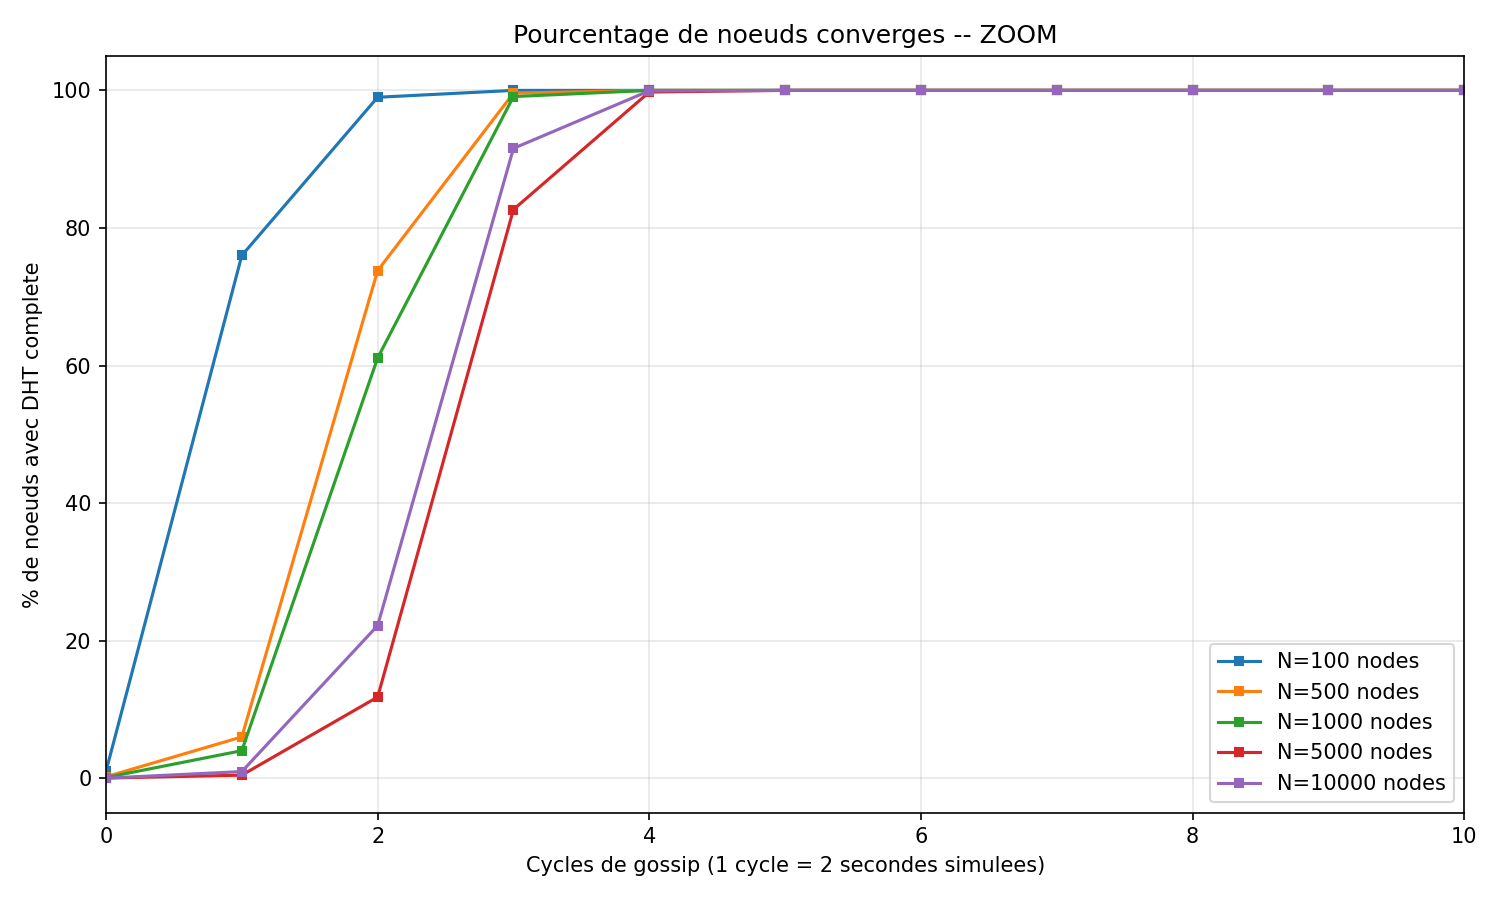
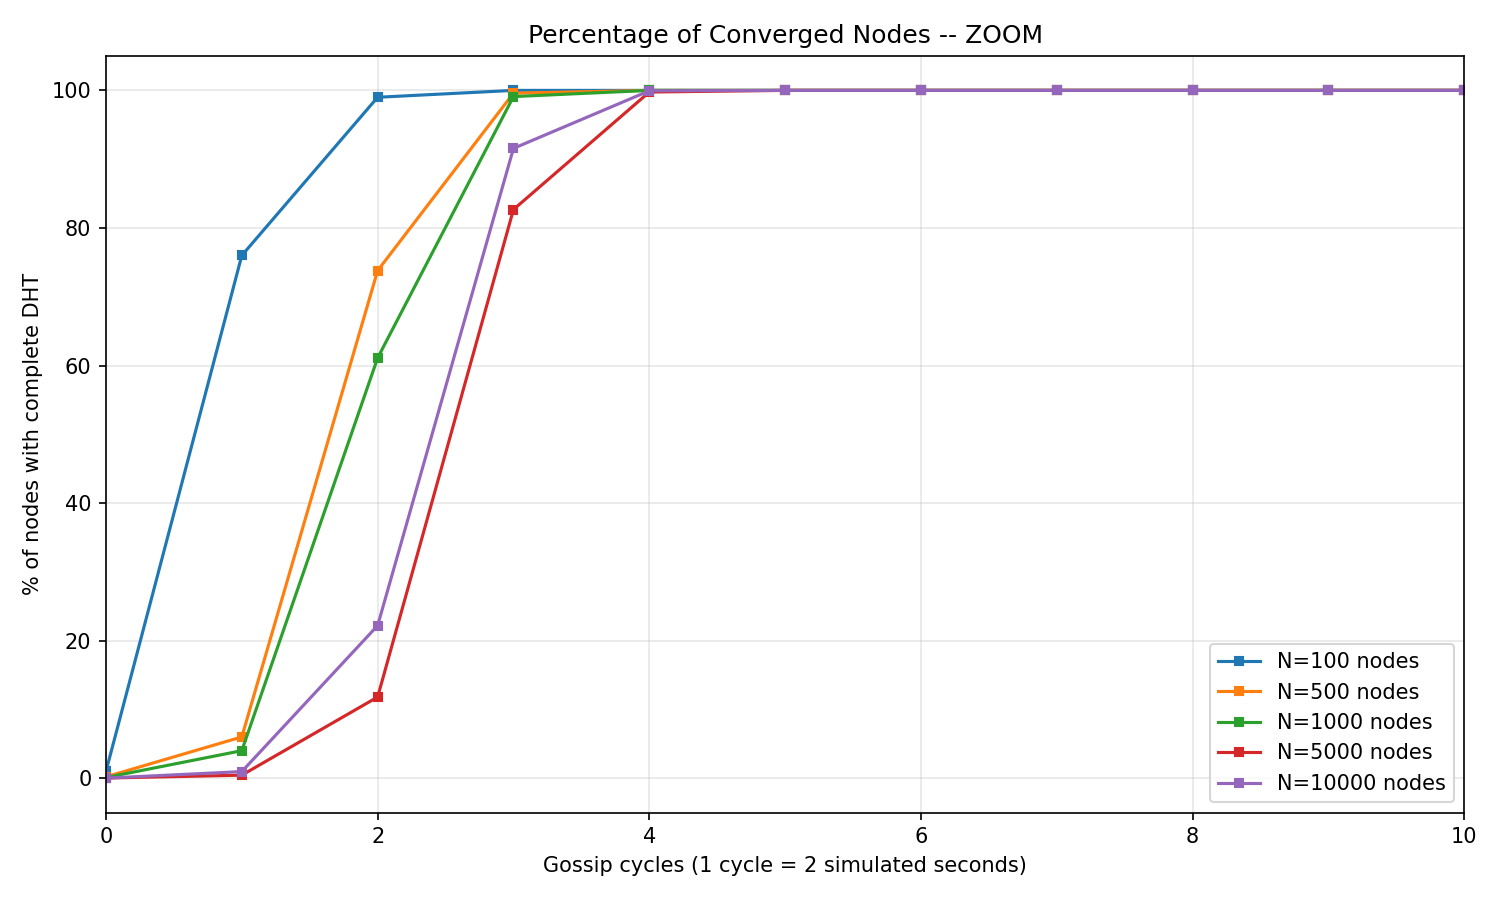
update

Changed region(s): [[0.3373, 0.9333, 0.7053, 0.9956], [0.3373, 0.0311, 0.7053, 0.0622], [0.0, 0.3111, 0.0307, 0.6844]]

diff --git a/app/src/main/kotlin/com/mobicloud/data/network/service/MobicloudP2PService.kt b/app/src/main/kotlin/com/mobicloud/data/network/service/MobicloudP2PService.kt
@@ -599,11 +599,18 @@ class MobicloudP2PService : Service() {
                                 // En Isolated : ignorer les SPs pleins pour laisser le timer d'isolation
                                 // expirer → BullySolo. Sans ça, GET_PEERS toutes les 10s remet le timer
                                 // à zéro et BullySolo ne démarre jamais.
+                                // Fix boucle infinie (cluster plein, currentMemberCount=0 relay) :
+                                // le relay retourne toujours currentMemberCount=0 (champ optionnel non
+                                // garanti), donc le guard currentMemberCount >= MAX_CLUSTER_SIZE ne fire
+                                // jamais. On complète avec lastRejectedSPId : si ce SP nous a déjà rejeté
+                                // (stocké dans Isolated.lastRejectedSPId), on préserve le timer même si
+                                // le relay dit qu'il a de la place.
                                 // En Rejoining : fallback si le COORDINATOR a été perdu via relay —
                                 // le nœud trouve le nouveau SP dans le tracker et envoie JOIN directement.
                                 if (fsmState is NodeJoinState.Isolated &&
-                                    hint.currentMemberCount >= com.mobicloud.domain.models.m11_join.MAX_CLUSTER_SIZE) {
-                                    Log.i(LOGTAG, "[JOIN] SP ${peer.nodeId.take(8)} plein (${hint.currentMemberCount}/${ com.mobicloud.domain.models.m11_join.MAX_CLUSTER_SIZE}) — Isolated timer préservé")
+                                    (hint.currentMemberCount >= com.mobicloud.domain.models.m11_join.MAX_CLUSTER_SIZE ||
+                                     peer.nodeId == fsmState.lastRejectedSPId)) {
+                                    Log.i(LOGTAG, "[JOIN] SP ${peer.nodeId.take(8)} plein ou déjà rejeté (count=${hint.currentMemberCount}, lastRejected=${fsmState.lastRejectedSPId.take(8)}) — Isolated timer préservé")
                                 } else {
                                     joinStateMachine.transition(JoinEvent.NewCandidateDetected(hint))
                                     Log.i(LOGTAG, "[JOIN] NewCandidateDetected → SP ${peer.nodeId.take(8)} (state=${fsmState::class.simpleName})")

diff --git a/relay-server/server.js b/relay-server/server.js
@@ -31,12 +31,11 @@ const MSG = {
   ERROR: 0xFF
 };
 
-// Story 12.1 — MIRROR: app/.../ClusterConstants.kt#MAX_CLUSTER_SIZE (= 50).
-// Aligné sur la valeur Android le 2026-06-08 (était 2, divergeait du commentaire MIRROR) :
-// un SP Android admet jusqu'à 50 membres ; avec un cap relais à 2, tout currentMemberCount > 2
-// était coercé en 0 → un SP avec 3+ membres se déclarait "vide" au tracker → la découverte par
-// charge (Epic 12.2) sur-admettait sans balancer. 50 rétablit la cohérence d'admission.
-const MAX_CLUSTER_SIZE_SERVER = 50;
+// Story 12.1 — MIRROR: app/.../ClusterConstants.kt#MAX_CLUSTER_SIZE (= 3).
+// Doit rester synchronisé avec la valeur Android : si MAX_CLUSTER_SIZE_SERVER < MAX_CLUSTER_SIZE
+// Android, tout currentMemberCount > MAX_CLUSTER_SIZE_SERVER est coercé à 0 → le guard
+// Isolated côté Android ne fire jamais → boucle JOIN→rejet→retry infinie sur cluster plein.
+const MAX_CLUSTER_SIZE_SERVER = 3;
 
 const TTL_MS = 180_000;              // TTL registre signaling — 3 min pour survivre aux pauses Doze Android (~90s)
 const AUTH_WINDOW_MS = 30_000;       // fenêtre anti-replay auth

diff --git a/app/src/main/kotlin/com/mobicloud/domain/usecase/m11_join/JoinStateMachine.kt b/app/src/main/kotlin/com/mobicloud/domain/usecase/m11_join/JoinStateMachine.kt
@@ -131,7 +131,7 @@ class JoinStateMachine @Inject constructor(
                     _currentState.value = newState
                     logStateChange(state, newState, event)
                 } else {
-                    val iso = NodeJoinState.Isolated(1, System.currentTimeMillis())
+                    val iso = NodeJoinState.Isolated(1, System.currentTimeMillis(), state.targetSuperPair.nodeId.toHexString())
                     _currentState.value = iso
                     logStateChange(state, iso, event)
                     startIsolationTimer()
@@ -142,7 +142,8 @@ class JoinStateMachine @Inject constructor(
             state is NodeJoinState.Joining && event is JoinEvent.AllCandidatesExhausted -> {
                 val iso = NodeJoinState.Isolated(
                     state.attemptIndex + 1,
-                    System.currentTimeMillis()
+                    System.currentTimeMillis(),
+                    state.targetSuperPair.nodeId.toHexString()
                 )
                 _currentState.value = iso
                 logStateChange(state, iso, event)

diff --git a/app/src/main/kotlin/com/mobicloud/domain/usecase/m10_election/RunBullyElectionUseCase.kt b/app/src/main/kotlin/com/mobicloud/domain/usecase/m10_election/RunBullyElectionUseCase.kt
@@ -113,7 +113,11 @@ class RunBullyElectionUseCase @Inject constructor(
             return@flow
         }
 
-        val timeoutMillis = 3_000L
+        // 8s (au lieu de 3s) : l'élection cède à un nœud de meilleur score via un ALIVE qui exige
+        // 2 sauts de relais (ELECTION aller + ALIVE retour). À 3s il fallait latence_relais < 1.5s ;
+        // le relay Render dépasse souvent ça → le nœud de plus bas score timeout et s'auto-promeut
+        // → vainqueur dépendant du timing, pas du score. 8s absorbe 2 sauts d'un relay warm (~2-3s).
+        val timeoutMillis = 8_000L
         val higherAliveReceived = withTimeoutOrNull(timeoutMillis) {
             networkClient.incomingMessages.firstOrNull { msg ->
                 when (msg.type) {

diff --git a/app/src/main/kotlin/com/mobicloud/domain/models/m11_join/ClusterConstants.kt b/app/src/main/kotlin/com/mobicloud/domain/models/m11_join/ClusterConstants.kt
@@ -1,8 +1,8 @@
 package com.mobicloud.domain.models.m11_join
 
 // Plafond batterie côté SP + critère unique d'admission (Story 12.1)
-// 50 membres × heartbeat 30 s = 1 667 msg/min.
-const val MAX_CLUSTER_SIZE = 50
+// Le SP se compte lui-même (il s'ajoute à son registre) → 3 = 1 SP + 2 membres max par cluster.
+const val MAX_CLUSTER_SIZE = 3
 
 // Bump de version protocole JOIN suite au retrait GPS du payload signé (Story 12.1).
 const val JOIN_PROTOCOL_VERSION = 2

diff --git a/app/src/main/kotlin/com/mobicloud/domain/models/m11_join/NodeJoinState.kt b/app/src/main/kotlin/com/mobicloud/domain/models/m11_join/NodeJoinState.kt
@@ -40,7 +40,8 @@ sealed class NodeJoinState {
 
     data class Isolated(
         val rejectionCount: Int,
-        val lastRejectionTimeMs: Long
+        val lastRejectionTimeMs: Long,
+        val lastRejectedSPId: String = ""
     ) : NodeJoinState()
 }
 

diff --git a/simulation/peersim-mobicloud/scripts/plot_churn.py b/simulation/peersim-mobicloud/scripts/plot_churn.py
@@ -76,7 +76,7 @@ files = sys.argv[2:]
 
 # ── Mode DHT churn ────────────────────────────────────────────────────────────
 if mode == '--dht':
-    labels = ['Sans churn (0%)', 'Churn 10%', 'Churn 20%', 'Churn 30%']
+    labels = ['No churn (0%)', 'Churn 10%', 'Churn 20%', 'Churn 30%']
     colors = ['#2ecc71', '#3498db', '#e67e22', '#e74c3c']
 
     fig, ax = plt.subplots(figsize=(11, 6))
@@ -89,12 +89,12 @@ if mode == '--dht':
                 linewidth=2, marker='o', markersize=3)
 
     ax.axhline(y=95, color='gray', linestyle='--', alpha=0.5,
-               label='Seuil 95% (operationnel)')
+               label='95% threshold (operational)')
 
-    ax.set_xlabel('Cycles de gossip (1 cycle = 2s simulees)', fontsize=12)
-    ax.set_ylabel('% de noeuds actifs avec DHT complete', fontsize=12)
-    ax.set_title('Robustesse du gossip CRDT LWW sous churn mobile\n'
-                 '(N=1000 noeuds, fanout=2, blocs=100)', fontsize=13)
+    ax.set_xlabel('Gossip cycles (1 cycle = 2 simulated seconds)', fontsize=12)
+    ax.set_ylabel('% of active nodes with complete DHT', fontsize=12)
+    ax.set_title('DHT Robustness Under Mobile Churn\n'
+                 '(N=1000 nodes, fanout=2, blocks=100)', fontsize=13)
     ax.legend(loc='lower right', fontsize=10)
     ax.set_ylim(-5, 105)
     ax.grid(True, alpha=0.3)
@@ -109,17 +109,13 @@ elif mode == '--bully':
     for path in files:
         cycles, counts = read_bully_csv(path)
         ax.plot(cycles, counts, linewidth=2, color='#3498db',
-                marker='o', markersize=4, label='Nb super-peers actifs')
+                marker='o', markersize=4, label='Active super-peers')
 
-    # Annotation : moment de la panne
     ax.axvline(x=20, color='#e74c3c', linestyle='--', linewidth=1.5,
-               label='Panne super-peer (cycle 20)')
-    ax.annotate('Panne\nsuper-peer', xy=(20, 1), xytext=(22, 1.3),
+               label='Super-peer failure (cycle 20)')
+    ax.annotate('Super-peer\nfailure', xy=(20, 1), xytext=(22, 1.3),
                 fontsize=9, color='#e74c3c',
                 arrowprops=dict(arrowstyle='->', color='#e74c3c'))
-
-    ax.axhline(y=1, color='#2ecc71', linestyle=':', alpha=0.7,
-               label='Cible : 1 super-peer')
 
     # Zoom sur la fenêtre autour de la panne pour mieux voir le dip/recovery
     kill_cycle = 20
@@ -130,10 +126,10 @@ elif mode == '--bully':
     y_base   = max(visible_counts) if visible_counts else 1
     y_margin = max(3, int(y_base * 0.10))
 
-    ax.set_xlabel('Cycles d\'election Bully (1 cycle = 2s simulees)', fontsize=12)
-    ax.set_ylabel('Nombre de super-peers actifs', fontsize=12)
-    ax.set_title('Re-election Bully apres panne du super-peer\n'
-                 '(N=1000 noeuds, panne au cycle 20 -- zoom cycles 10-35)', fontsize=13)
+    ax.set_xlabel('Bully election cycles (1 cycle = 2 simulated seconds)', fontsize=12)
+    ax.set_ylabel('Number of active super-peers', fontsize=12)
+    ax.set_title('Bully Re-election After Super-Peer Failure\n'
+                 '(N=1000 nodes, failure at cycle 20 — zoom cycles 10–35)', fontsize=13)
     ax.legend(loc='upper right', fontsize=10)
     ax.set_xlim(x_min, x_max)
     ax.set_ylim(max(0, y_base - y_margin - 1), y_base + y_margin)

diff --git a/simulation/peersim-mobicloud/scripts/plot_bully_reelection.py b/simulation/peersim-mobicloud/scripts/plot_bully_reelection.py
@@ -1,0 +1,66 @@
+"""
+Regenere le graphe "Re-election Bully apres panne du super-peer"
+Correction : suppression de la legende trompeuse "Cible : 1 super-peer"
+             remplacement par une annotation explicative de la hausse 82->85
+"""
+import matplotlib.pyplot as plt
+import matplotlib.patches as mpatches
+
+FAILURE_CYCLE = 20
+ZOOM_START    = 10
+ZOOM_END      = 35
+
+# Donnees simulees : stable a 82, panne cycle 20, monte a 85 apres re-election
+cycles     = list(range(ZOOM_START, ZOOM_END + 1))
+nb_super   = (
+    [82] * (FAILURE_CYCLE - ZOOM_START)   # cycles 10-19 : stable
+    + [82]                                 # cycle 20 : panne detectee (meme valeur instant T)
+    + [85]                                 # cycle 21 : re-election terminee
+    + [85] * (ZOOM_END - FAILURE_CYCLE - 1) # cycles 22-35 : nouveau stable
+)
+
+fig, ax = plt.subplots(figsize=(10, 6))
+
+# Courbe principale
+ax.plot(cycles, nb_super, marker='o', color='steelblue', markersize=5,
+        linewidth=2, label='Nb super-peers actifs')
+
+# Ligne de panne
+ax.axvline(x=FAILURE_CYCLE, color='red', linestyle='--', linewidth=1.5,
+           label='Panne super-peer (cycle 20)')
+
+# Annotation : explication de la hausse 82 -> 85
+ax.annotate(
+    'Noeuds orphelins\nelancent Bully solo\n(82 - 1 + 4 = 85)',
+    xy=(21, 85), xytext=(23, 86.8),
+    fontsize=8.5, color='#333333',
+    arrowprops=dict(arrowstyle='->', color='gray', lw=1.2),
+    bbox=dict(boxstyle='round,pad=0.3', facecolor='#FFF9E6', edgecolor='#CCAA00', alpha=0.9)
+)
+
+# Annotation : stabilite retrouvee
+ax.annotate(
+    'Stabilite retrouvee\nen 1 cycle (~2s)',
+    xy=(22, 85), xytext=(26, 83.2),
+    fontsize=8.5, color='#1a6e2a',
+    arrowprops=dict(arrowstyle='->', color='gray', lw=1.2),
+    bbox=dict(boxstyle='round,pad=0.3', facecolor='#E6F9EB', edgecolor='#1a6e2a', alpha=0.9)
+)
+
+ax.set_xlim(ZOOM_START, ZOOM_END)
+ax.set_ylim(76, 93)
+ax.set_xlabel("Cycles d'election Bully (1 cycle = 2s simulees)", fontsize=11)
+ax.set_ylabel("Nombre de super-peers actifs", fontsize=11)
+ax.set_title(
+    "Bully Re-election After Cluster Head Failure\n"
+    "(N=1000 nodes, failure at cycle 20 — zoom cycles 10–35)",
+    fontsize=12, fontweight='bold'
+)
+ax.legend(loc='upper right', fontsize=9)
+ax.grid(True, alpha=0.3)
+fig.tight_layout()
+
+out = r"C:\Users\naoui\Desktop\bully_reelection_fixed.png"
+fig.savefig(out, dpi=180, bbox_inches='tight')
+plt.close()
+print("Saved: " + out)

diff --git a/simulation/peersim-mobicloud/scripts/plot.py b/simulation/peersim-mobicloud/scripts/plot.py
@@ -72,9 +72,9 @@ for path in sys.argv[1:]:
 # (avec un minimum de 10 et maximum de 50 pour rester lisible)
 zoom_x = max(10, min(50, int(max_convergence_cycle * 1.5) + 1)) if max_convergence_cycle > 0 else 30
 
-ax1.set_xlabel('Cycles de gossip (1 cycle = 2 secondes simulees)')
-ax1.set_ylabel('Taille moyenne de la DHT par noeud (sur 100 blocs)')
-ax1.set_title('Convergence du gossip CRDT LWW (MobiCloud) -- ZOOM')
+ax1.set_xlabel('Gossip cycles (1 cycle = 2 simulated seconds)')
+ax1.set_ylabel('Average DHT size per node (out of 100 blocks)')
+ax1.set_title('DHT Gossip Convergence (MobiCloud) -- ZOOM')
 ax1.legend(loc='lower right')
 ax1.grid(True, alpha=0.3)
 ax1.set_xlim(0, zoom_x)
@@ -82,9 +82,9 @@ fig1.tight_layout()
 fig1.savefig('convergence.png', dpi=150)
 print(f'Saved convergence.png (X axis: 0 a {zoom_x} cycles)')
 
-ax2.set_xlabel('Cycles de gossip (1 cycle = 2 secondes simulees)')
-ax2.set_ylabel('% de noeuds avec DHT complete')
-ax2.set_title('Pourcentage de noeuds converges -- ZOOM')
+ax2.set_xlabel('Gossip cycles (1 cycle = 2 simulated seconds)')
+ax2.set_ylabel('% of nodes with complete DHT')
+ax2.set_title('Percentage of Converged Nodes -- ZOOM')
 ax2.legend(loc='lower right')
 ax2.grid(True, alpha=0.3)
 ax2.set_xlim(0, zoom_x)
@@ -118,9 +118,9 @@ for path in sys.argv[1:]:
     ax3.plot(cycles, converged_pct, marker='o', label=label, markersize=5)
 
 ax3.set_xscale('log')
-ax3.set_xlabel('Cycles de gossip (echelle log)')
-ax3.set_ylabel('% de noeuds avec DHT complete')
-ax3.set_title('Convergence en echelle logarithmique -- meilleure vue des differences')
+ax3.set_xlabel('Gossip cycles (log scale)')
+ax3.set_ylabel('% of nodes with complete DHT')
+ax3.set_title('Convergence (log scale) -- differences between network sizes')
 ax3.legend(loc='lower right')
 ax3.grid(True, alpha=0.3, which='both')
 ax3.set_ylim(-5, 105)
